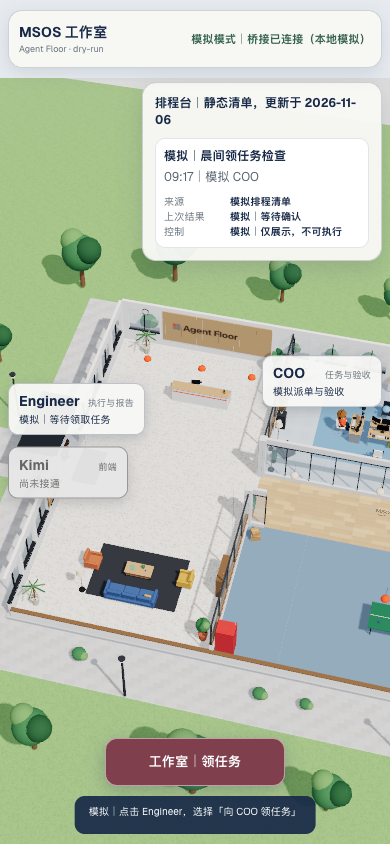
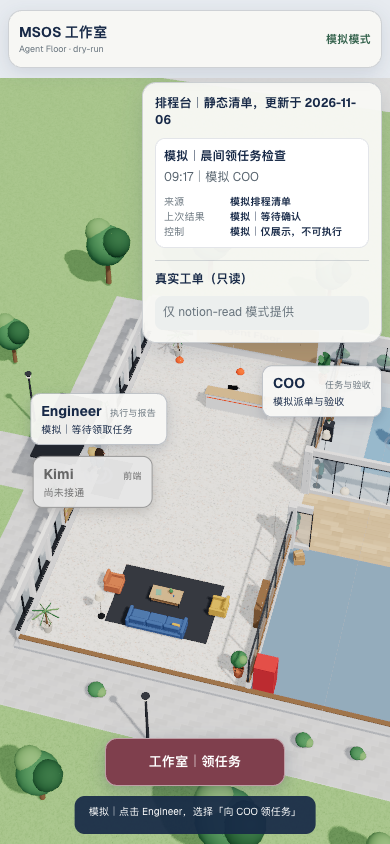
[KIMI] ENG-160 dry-run studio UI v3

diff --git a/src/studio/state.js b/src/studio/state.js
@@ -3,10 +3,11 @@
 
 export function createStudioState() {
   return {
-    bridge: { received: false, mode: 'dry-run', connected: null, lastUpdateTs: null, note: '模拟｜尚未收到桥接状态' },
+    bridge: { received: false, connection: 'unknown', mode: 'dry-run', connected: null, lastUpdateTs: null, note: '尚未收到桥接状态' },
     engineer: { taskId: null, taskTitle: '模拟｜等待领取任务', blocked: null, claimPending: false, lastRejection: null },
     kimi: { status: '尚未接通' },
     schedule: { loaded: false, updatedAt: null, items: [] },
+    real: { ok: null, working: [], claimable: [], error: null },
     reports: {},
     reportOrder: [],
     reviewPending: {},
@@ -22,7 +23,8 @@ export function applyStudioEvent(state, ev) {
       if (ev.agent === 'kimi') break;
       state.bridge = {
         received: true,
-        mode: 'dry-run',
+        connection: 'connected',
+        mode: state.bridge.mode,
         connected: true,
         lastUpdateTs: Number.isFinite(ev.ts) ? ev.ts : Date.now(),
         note: String(ev.activity || '模拟｜status 心跳保活'),
@@ -32,10 +34,11 @@ export function applyStudioEvent(state, ev) {
     case 'bridge_status':
       state.bridge = {
         received: true,
+        connection: 'connected',
         mode: String(ev.mode || 'dry-run'),
         connected: ev.connected === true,
         lastUpdateTs: Number.isFinite(ev.last_update_ts) ? ev.last_update_ts : null,
-        note: String(ev.note || '模拟｜桥接状态已更新'),
+        note: String(ev.note || '桥接状态已更新'),
       };
       break;
     case 'claim_confirmed':
@@ -87,9 +90,19 @@ export function applyStudioEvent(state, ev) {
       if (approved) {
         delete state.reports[taskId];
         state.reportOrder = state.reportOrder.filter((id) => id !== taskId);
+        if (state.engineer.taskId === taskId) {
+          state.engineer.taskId = null;
+          state.engineer.taskTitle = '模拟｜等待领取任务';
+          state.engineer.blocked = null;
+          state.engineer.claimPending = false;
+        }
         state.notice = `模拟｜${taskId} 验收通过，文件已收回`;
       } else {
         report.status = 'rejected';
+        if (state.engineer.taskId === taskId) {
+          const title = state.engineer.taskTitle.replace(/^退回修改｜/, '');
+          state.engineer.taskTitle = `退回修改｜${title}`;
+        }
         state.notice = `模拟｜${taskId} 退回修改：${report.note}`;
       }
       break;
@@ -118,6 +131,35 @@ export function setStudioSchedule(state, board) {
   return state;
 }
 
+export function setStudioBridgeConnection(state, connected) {
+  state.bridge.connection = connected ? 'connected' : 'disconnected';
+  return state;
+}
+
+export function setStudioReal(state, real) {
+  const read = (items) => Array.isArray(items) ? items.filter((item) => item && typeof item === 'object').map((item) => ({
+    id: String(item.id || '未提供'),
+    title: String(item.title || '未提供'),
+    status: String(item.status || '未提供'),
+    deadline: item.deadline ? String(item.deadline) : '未提供',
+    url: item.url ? String(item.url) : null,
+  })) : [];
+  state.real = {
+    ok: Boolean(real && real.ok === true),
+    working: read(real?.working),
+    claimable: read(real?.claimable),
+    error: real?.error ? String(real.error) : null,
+  };
+  return state;
+}
+
+export function realWorkView(state) {
+  if (state.bridge.mode === 'dry-run') return { kind: 'mode', text: '仅 notion-read 模式提供' };
+  if (state.real.ok === false) return { kind: 'error', text: '真实工单读取失败' };
+  if (state.real.ok === null) return { kind: 'loading', text: '真实工单读取中' };
+  return { kind: 'ready', text: '' };
+}
+
 /** Record the intent only. Confirmation events, never clicks, complete the work. */
 export function beginStudioAction(state, payload) {
   const action = { ...payload, ts: Number.isFinite(payload.ts) ? payload.ts : Date.now() };
@@ -141,15 +183,17 @@ export function latestReport(state) {
 
 export function bridgeView(state, now = Date.now()) {
   const b = state.bridge;
-  if (!b.received) return { text: '模拟模式｜状态未知', stale: true, note: b.note };
+  if (b.connection === 'disconnected') return { text: '桥接未连接', title: '桥接未连接', stale: true, note: b.note };
+  if (!b.received) return { text: '状态未知', title: '状态未知', stale: true, note: b.note };
+  const title = { 'dry-run': '模拟模式', 'notion-read': '只读真实工单｜领取仍为模拟', live: '真实模式' }[b.mode] || '状态未知';
   const stale = !b.connected || !b.lastUpdateTs || now - b.lastUpdateTs > 60_000;
   if (stale) {
     const time = b.lastUpdateTs
       ? new Date(b.lastUpdateTs).toLocaleTimeString('zh-CN', { hour: '2-digit', minute: '2-digit', hour12: false })
       : '未知';
-    return { text: `模拟模式｜资料过时／断线，最后更新 ${time}`, stale: true, note: b.note };
+    return { text: `${title}｜资料过时／断线，最后更新 ${time}`, title, stale: true, note: b.note };
   }
-  return { text: '模拟模式｜桥接已连接（本地模拟）', stale: false, note: b.note };
+  return { text: title, title, stale: false, note: b.note };
 }
 
 export class StudioStore {
@@ -173,6 +217,14 @@ export class StudioStore {
   }
   setSchedule(board) {
     setStudioSchedule(this.state, board);
+    this.emit();
+  }
+  setReal(real) {
+    setStudioReal(this.state, real);
+    this.emit();
+  }
+  setBridgeConnection(connected) {
+    setStudioBridgeConnection(this.state, connected);
     this.emit();
   }
 }

diff --git a/src/studio/boot.ts b/src/studio/boot.ts
@@ -5,7 +5,7 @@ import { store } from '../core/store';
 import { World } from '../world/World';
 import { StudioHud } from './StudioHud';
 import { latestReport, StudioStore, type StudioEvent } from './state';
-import { postStudioAction, type StudioActionPayload } from './transport';
+import { fetchStudioState, postStudioAction, subscribeBridge, useBridge, type StudioActionPayload } from './transport';
 
 export async function bootStudio(app: HTMLElement, stage: HTMLElement) {
   document.title = 'MSOS 工作室 · 模拟模式';
@@ -26,7 +26,8 @@ export async function bootStudio(app: HTMLElement, stage: HTMLElement) {
     try {
       await postStudioAction(action);
     } catch {
-      studio.state.notice = '模拟｜本地动作处理器未接受请求，请重试';
+      studio.state.notice = useBridge ? '桥接未接受请求，请检查连接' : '模拟｜本地动作处理器未接受请求，请重试';
+      if (useBridge) studio.setBridgeConnection(false);
       studio.state.engineer.claimPending = false;
       if (action.task_id) delete studio.state.reviewPending[action.task_id];
       studio.emit();
@@ -76,7 +77,7 @@ export async function bootStudio(app: HTMLElement, stage: HTMLElement) {
   setInterval(() => hud.tick(), 1000);
 
   const dispatch = (event: StudioEvent) => studio.apply(event);
-  setInterval(() => {
+  if (!useBridge) setInterval(() => {
     const ts = Date.now();
     // No status field: keep a completed role completed instead of re-joining as idle.
     store.applyLocal({ type: 'status', agent: 'coo', activity: '模拟｜60 秒心跳保活', ts });
@@ -84,7 +85,18 @@ export async function bootStudio(app: HTMLElement, stage: HTMLElement) {
   }, 60_000);
   const params = new URLSearchParams(location.search);
   const now = Date.now();
-  dispatch({ type: 'bridge_status', mode: 'dry-run', connected: true, last_update_ts: now, note: '模拟｜本地 dry-run 已就绪' });
+  // Real bridge status comes only from the bridge; never fake a connection or confirmation.
+  if (!useBridge) dispatch({ type: 'bridge_status', mode: 'dry-run', connected: true, last_update_ts: now, note: '模拟｜本地 dry-run 已就绪' });
+  const refreshReal = async () => {
+    if (!useBridge || studio.state.bridge.mode === 'dry-run') return;
+    try {
+      const snapshot = await fetchStudioState();
+      studio.setReal(snapshot.real || null);
+    } catch {
+      studio.setReal(null);
+    }
+  };
+  studio.onEvent((event) => { if (event.type === 'bridge_status') void refreshReal(); });
   // Static COO-maintained asset only; a missing file or SPA HTML fallback is not a schedule.
   void fetch('/schedule-board.json', { cache: 'no-store', headers: { Accept: 'application/json' } })
     .then((response) => {
@@ -101,10 +113,17 @@ export async function bootStudio(app: HTMLElement, stage: HTMLElement) {
     dispatch({ type: 'claim_confirmed', agent: 'engineer', task_id: 'SIM-001', task_title: '模拟｜制作工作室领任务与验收界面', source: '模拟 COO' });
     dispatch({ type: 'report_ready', agent: 'engineer', task_id: 'SIM-001', report_local: '/sim-reports/SIM-001-report.md', summary: '模拟｜已完成三角色桌面、领取确认、阻塞举手与验收交互；本文件只是本地演示。' });
     hud.openReport();
+  } else if (capture === 'notion-read') {
+    dispatch({ type: 'bridge_status', mode: 'notion-read', connected: true, last_update_ts: now, note: '模拟｜notion-read 展示，未读取 Notion' });
+    studio.setReal({ ok: true, working: [{ id: 'SIM-READ-001', title: '模拟｜进行中的只读工单', status: '进行中', deadline: '2026-11-07', url: 'https://app.notion.com/' }], claimable: [{ id: 'SIM-READ-002', title: '模拟｜可领取的只读工单', status: '可领取', deadline: '2026-11-08', url: 'https://app.notion.com/' }] });
   } else if (capture === 'offline') {
     dispatch({ type: 'bridge_status', mode: 'dry-run', connected: false, last_update_ts: now - 65_000, note: '模拟｜桥接断线证据' });
+  } else if (capture === 'bridge-offline') {
+    studio.setBridgeConnection(false);
   } else if (params.has('simulate')) {
     void runDryRun(dispatch, { delayMs: 1400 });
+  } else if (useBridge) {
+    subscribeBridge(dispatch, (connected) => studio.setBridgeConnection(connected));
   }
 
   // Read-only inspection handles for the local dry-run checks and captures.

diff --git a/src/studio/StudioHud.ts b/src/studio/StudioHud.ts
@@ -1,8 +1,18 @@
 import type { Anchor } from '../world/World';
-import { bridgeView, latestReport, StudioStore, type StudioReport } from './state';
+import { bridgeView, latestReport, realWorkView, StudioStore, type StudioReport, type StudioRealTicket } from './state';
 
 function esc(value: string) {
   return value.replace(/[&<>"']/g, (c) => ({ '&': '&amp;', '<': '&lt;', '>': '&gt;', '"': '&quot;', "'": '&#39;' })[c]!);
+}
+
+function safeUrl(value: string | null) {
+  if (!value) return null;
+  try {
+    const url = new URL(value);
+    return url.protocol === 'https:' || url.protocol === 'http:' ? esc(value) : null;
+  } catch {
+    return null;
+  }
 }
 
 interface StudioHudActions {
@@ -81,6 +91,7 @@ export class StudioHud {
     bridge.textContent = view.text;
     bridge.classList.toggle('stale', view.stale);
     this.banner.title = view.note;
+    document.title = `MSOS 工作室 · ${view.title}`;
   }
 
   private render() {
@@ -109,12 +120,27 @@ export class StudioHud {
 
   private renderSchedule() {
     const schedule = this.studio.state.schedule;
-    if (!schedule.loaded) {
-      this.schedule.innerHTML = '<h2>排程台｜静态清单</h2><p>排程清单未载入</p>';
-      return;
-    }
-    const items = schedule.items.length ? schedule.items.map((item) => `<li><strong>${esc(item.name)}</strong><span>${esc(item.time)}｜${esc(item.owner)}</span><dl><div><dt>来源</dt><dd>${esc(item.source)}</dd></div><div><dt>上次结果</dt><dd>${esc(item.lastResult)}</dd></div><div><dt>控制</dt><dd>${esc(item.control)}</dd></div></dl></li>`).join('') : '<li>模拟｜目前没有排程</li>';
-    this.schedule.innerHTML = `<h2>排程台｜静态清单，更新于 ${esc(schedule.updatedAt || '日期未提供')}</h2><ol>${items}</ol>`;
+    const scheduleBody = schedule.loaded
+      ? `<h2>排程台｜静态清单，更新于 ${esc(schedule.updatedAt || '日期未提供')}</h2><ol>${schedule.items.length ? schedule.items.map((item) => `<li><strong>${esc(item.name)}</strong><span>${esc(item.time)}｜${esc(item.owner)}</span><dl><div><dt>来源</dt><dd>${esc(item.source)}</dd></div><div><dt>上次结果</dt><dd>${esc(item.lastResult)}</dd></div><div><dt>控制</dt><dd>${esc(item.control)}</dd></div></dl></li>`).join('') : '<li>模拟｜目前没有排程</li>'}</ol>`
+      : '<h2>排程台｜静态清单</h2><p>排程清单未载入</p>';
+    this.schedule.innerHTML = scheduleBody + this.realMarkup();
+  }
+
+  private realMarkup() {
+    const state = this.studio.state;
+    const view = realWorkView(state);
+    const body = view.kind === 'ready'
+      ? this.realGroup('进行中', state.real.working) + this.realGroup('可领取', state.real.claimable)
+      : `<p class="studio-real-message">${view.text}</p>`;
+    return `<section class="studio-real"><h2>真实工单（只读）</h2>${body}</section>`;
+  }
+
+  private realGroup(label: string, items: StudioRealTicket[]) {
+    const body = items.length ? `<ul>${items.map((item) => {
+      const url = safeUrl(item.url);
+      return `<li><strong>${esc(item.id)}</strong><span>${esc(item.title)}</span><small>${esc(item.status)}｜截止 ${esc(item.deadline)}</small>${url ? `<a href="${url}" target="_blank" rel="noreferrer">Notion ↗</a>` : ''}</li>`;
+    }).join('')}</ul>` : '<p>目前没有工单</p>';
+    return `<section class="studio-real-group"><h3>${label}</h3>${body}</section>`;
   }
 
   private renderFile() {

diff --git a/src/studio/studio.css b/src/studio/studio.css
@@ -12,7 +12,13 @@
 .studio-schedule dl{margin:8px 0 0;font-size:11px;line-height:1.5}
 .studio-schedule dl div{display:grid;grid-template-columns:60px 1fr;gap:6px}
 .studio-schedule dt{color:#68747d}.studio-schedule dd{margin:0;font-weight:650}
+.studio-real{margin-top:12px;padding-top:10px;border-top:1px solid rgba(23,41,71,.16)}
+.studio-real h2{font-size:13px}.studio-real-group{margin-top:10px}.studio-real-group h3{margin:0 0 5px;font-size:11px;color:#68747d}
+.studio-real-group ul{list-style:none;margin:0;padding:0}.studio-real-group li{display:grid;gap:2px;margin-bottom:6px}
+.studio-real-group li>strong{font-size:11px}.studio-real-group li>span{font-size:11px}.studio-real-group small{font-size:10px;color:#68747d}
+.studio-real-group a{display:inline-flex;align-items:center;justify-content:center;min-height:44px;margin-top:4px;border:1px solid #8a969e;border-radius:8px;color:#294d68;font-size:11px;font-weight:700;text-decoration:none}
+.studio-real-message{padding:8px!important;border-radius:8px;background:#ecefee}
 .studio-launcher{position:absolute;left:50%;bottom:calc(max(14px,env(safe-area-inset-bottom)) + 50px);transform:translateX(-50%);min-width:180px;min-height:48px;padding:10px 18px;border:1px solid rgba(255,255,255,.5);border-radius:12px;background:#7f3f4d;color:#fff;box-shadow:0 5px 18px rgba(23,41,71,.24);font-size:14px;font-weight:750;cursor:pointer;z-index:4500}
 .studio-launcher:focus-visible{outline:3px solid #236b8e;outline-offset:3px}
-@media(max-width:600px){.studio-banner{left:8px;right:8px;padding:8px 10px;gap:8px}.studio-brand strong{font-size:14px}.studio-brand span{font-size:9px}.studio-bridge{font-size:11px;max-width:205px}.studio-tag{min-width:120px;max-width:160px}.studio-schedule{top:82px;right:8px;width:240px;max-height:220px;padding:12px}.studio-schedule h2{font-size:12px;margin-bottom:8px}.studio-schedule li{padding:8px}.studio-schedule dl{font-size:10px}.studio-notice{bottom:max(10px,env(safe-area-inset-bottom));font-size:10px}.studio-launcher{bottom:calc(max(10px,env(safe-area-inset-bottom)) + 48px);min-height:48px;font-size:13px}.studio-menu,.studio-modal{padding:20px 18px}.studio-review-actions{gap:8px}}
+@media(max-width:600px){.studio-banner{left:8px;right:8px;padding:8px 10px;gap:8px}.studio-brand strong{font-size:14px}.studio-brand span{font-size:9px}.studio-bridge{font-size:11px;max-width:205px}.studio-tag{min-width:120px;max-width:160px}.studio-schedule{top:82px;right:8px;width:240px;max-height:300px;padding:12px}.studio-schedule h2{font-size:12px;margin-bottom:8px}.studio-schedule li{padding:8px}.studio-schedule dl{font-size:10px}.studio-notice{bottom:max(10px,env(safe-area-inset-bottom));font-size:10px}.studio-launcher{bottom:calc(max(10px,env(safe-area-inset-bottom)) + 48px);min-height:48px;font-size:13px}.studio-menu,.studio-modal{padding:20px 18px}.studio-review-actions{gap:8px}}
 @media(prefers-reduced-motion:reduce){.studio-hud *{animation:none!important;transition:none!important}}

diff --git a/src/studio/state.d.ts b/src/studio/state.d.ts
@@ -4,19 +4,25 @@ export interface StudioAction { action: 'claim_request' | 'review'; agent?: stri
 export interface StudioReport { taskId: string; status: 'ready' | 'rejected'; summary: string; reportUrl: string | null; reportLocal: string | null; note: string }
 export interface StudioScheduleItem { name: string; owner: string; time: string; source: string; lastResult: string; control: string }
 export interface StudioScheduleBoard { updatedAt?: string; items?: StudioScheduleItem[] }
+export interface StudioRealTicket { id: string; title: string; status: string; deadline: string; url: string | null }
+export interface StudioRealState { ok: boolean | null; working: StudioRealTicket[]; claimable: StudioRealTicket[]; error: string | null }
 export interface StudioState {
-  bridge: { received: boolean; mode: string; connected: boolean | null; lastUpdateTs: number | null; note: string };
+  bridge: { received: boolean; connection: 'unknown' | 'connected' | 'disconnected'; mode: string; connected: boolean | null; lastUpdateTs: number | null; note: string };
   engineer: { taskId: string | null; taskTitle: string; blocked: { taskId: string; reason: string } | null; claimPending: boolean; lastRejection: string | null };
   kimi: { status: '尚未接通' };
   schedule: { loaded: boolean; updatedAt: string | null; items: StudioScheduleItem[] };
+  real: StudioRealState;
   reports: Record<string, StudioReport>; reportOrder: string[]; reviewPending: Record<string, { result: string; note: string }>; notice: string; actions: StudioAction[];
 }
 export function createStudioState(): StudioState;
 export function applyStudioEvent(state: StudioState, ev: StudioEvent): StudioState;
 export function setStudioSchedule(state: StudioState, board: StudioScheduleBoard | null): StudioState;
+export function setStudioReal(state: StudioState, real: Partial<StudioRealState> | null): StudioState;
+export function setStudioBridgeConnection(state: StudioState, connected: boolean): StudioState;
+export function realWorkView(state: StudioState): { kind: 'mode' | 'error' | 'loading' | 'ready'; text: string };
 export function beginStudioAction(state: StudioState, payload: Omit<StudioAction, 'ts'> & { ts?: number }): StudioAction;
 export function latestReport(state: StudioState): StudioReport | null;
-export function bridgeView(state: StudioState, now?: number): { text: string; stale: boolean; note: string };
+export function bridgeView(state: StudioState, now?: number): { text: string; title: string; stale: boolean; note: string };
 export class StudioStore {
   state: StudioState;
   constructor();
@@ -26,4 +32,6 @@ export class StudioStore {
   emit(): void;
   beginAction(payload: Omit<StudioAction, 'ts'> & { ts?: number }): StudioAction;
   setSchedule(board: StudioScheduleBoard | null): void;
+  setReal(real: Partial<StudioRealState> | null): void;
+  setBridgeConnection(connected: boolean): void;
 }

diff --git a/src/studio/transport.ts b/src/studio/transport.ts
@@ -1,5 +1,9 @@
-// Local dry-run /actions handler. The Request is a real POST-shaped request,
-// but it is resolved here and never passed to the network or the Agent Floor server.
+// Studio action transport.
+// Default (?studio): controlled transport to the local MSOS bridge (http://127.0.0.1:4318, override with ?bridge=).
+//   POST /actions carries the intent only; results arrive as bridge events on GET /studio/events (SSE).
+// Kimi's local dry-run handler stays for ?simulate and ?capture (UI evidence runs), and never touches the network.
+import type { StudioEvent, StudioRealState } from './state';
+
 export type StudioActionPayload = {
   action: 'claim_request' | 'review';
   agent?: string;
@@ -9,15 +13,47 @@ export type StudioActionPayload = {
   ts: number;
 };
 
+const params = new URLSearchParams(location.search);
+export const BRIDGE = (params.get('bridge') || 'http://127.0.0.1:4318').replace(/\/$/, '');
+export const useBridge = !params.has('simulate') && !params.has('capture');
+
 export const dryRunActionRequests: StudioActionPayload[] = [];
 
 export async function postStudioAction(payload: StudioActionPayload): Promise<Response> {
+  if (useBridge) {
+    const res = await fetch(BRIDGE + '/actions', {
+      method: 'POST',
+      headers: { 'Content-Type': 'application/json' },
+      body: JSON.stringify(payload),
+      signal: AbortSignal.timeout(5000),
+    });
+    if (res.status !== 202) throw new Error('bridge refused: ' + res.status);
+    return res;
+  }
   const request = new Request('/actions', {
     method: 'POST',
     headers: { 'Content-Type': 'application/json' },
     body: JSON.stringify(payload),
   });
   return localActionHandler(request);
+}
+
+/** Bridge events → studio state. EventSource reconnects by itself; the bridge replays current state on connect. */
+export function subscribeBridge(dispatch: (event: StudioEvent) => void, onConnection: (connected: boolean) => void): EventSource {
+  const es = new EventSource(BRIDGE + '/studio/events');
+  es.onopen = () => onConnection(true);
+  es.onerror = () => onConnection(false);
+  es.onmessage = (e) => {
+    onConnection(true);
+    try { dispatch(JSON.parse(e.data)); } catch { /* ignore malformed frames */ }
+  };
+  return es;
+}
+
+export async function fetchStudioState(): Promise<{ mode?: string; real?: StudioRealState | null }> {
+  const response = await fetch(BRIDGE + '/studio/state', { cache: 'no-store', signal: AbortSignal.timeout(5000) });
+  if (!response.ok) throw new Error('bridge state unavailable: ' + response.status);
+  return response.json();
 }
 
 async function localActionHandler(request: Request): Promise<Response> {

diff --git a/docs/eng-160/HANDOFF_V3.md b/docs/eng-160/HANDOFF_V3.md
@@ -1,0 +1,33 @@
+# ENG-160-UI v3 — 本地桥接传输、三模式与真实工单只读列表
+
+## STATUS
+
+DONE（本地 dry-run 桥接已端到端验证）。基线：`kimi/studio-ui-v2@c80809d`；分支：`kimi/studio-ui-v3`。未修改 server、`shared/protocol.js`、bridge 目录或 arthur-os；未连接 Notion、真实 API 或任何 token。
+
+## CHANGED
+
+- `src/studio/transport.ts`：默认 `?studio` 使用 `127.0.0.1:4318`，可用 `?bridge=` 覆盖；POST `/actions` 只发送领取／验收意图，GET `/studio/events` 以 SSE 接收确认事件；新增 GET `/studio/state` 只读快照。只有 `?simulate` 与 `?capture` 使用本地 dry-run handler。
+- `src/studio/boot.ts`：接入桥接订阅与只读状态刷新；桥接模式不再发本地假 `bridge_status` 或本地心跳；请求失败显示「桥接未接受请求，请检查连接」。新增 notion-read 与断线展示 capture。
+- `src/studio/state.js`、`state.d.ts`：新增桥接连接状态、真实工单只读状态；三种模式文案为「模拟模式」「只读真实工单｜领取仍为模拟」「真实模式」，未收到为「状态未知」，传输断开为「桥接未连接」。`review_result=approved` 清除 Engineer 旧单并恢复「等待领取任务」；退回保留任务并标「退回修改」。
+- `src/studio/StudioHud.ts`：页面标题同步桥接模式；排程台下方新增「真实工单（只读）」，分列 working／claimable 的 id、title、status、deadline 与安全 http(s) Notion 链接，无领取按钮；失败与 dry-run 有各自明确文案。
+- `src/studio/studio.css`：真实工单只读列表与手机排程台滚动区域样式。
+- `test/studio.test.mjs`：新增 4 项测试，覆盖断线不假确认、三种模式与未知文案、验收后清名牌／退回保留、real.ok=false 文案。
+- `scripts/studio-browser.mjs`：保留 v1／v2 坐标点击回归；新增 notion-read 只读列表、本地桥接完整领取到验收、断线后点击不产生假确认的检查与截图。
+- `docs/eng-160/evidence/`：新增 3 张 v3 截图，更新浏览器检查 JSON 与回归截图。
+
+## TESTED
+
+- `npm test`：24/24 PASS（原 20 项＋新增 4 项）。
+- `npm run build`：TypeScript 与 Vite production build PASS。
+- `node scripts/studio-browser.mjs`：390×844 mobile emulation PASS；v1／v2 回归通过。使用本地 `bridge.mjs --dry-run` 完成真实传输的 `claim_request → claim_confirmed → report_ready → review → review_result(approved)`，验收后 taskId 为 null、桌上文件消失、名牌恢复等待领取。随后切换到未监听端口，确认横幅「桥接未连接」且点击没有产生 taskId 或报告。
+- 桥接运行数据写入独立临时目录 `.eng160/bridge-v3-state`，未写 bridge 默认 `state/`；浏览器断言记录见 `evidence/browser-checks.json`。
+
+## 截图
+
+- `v3-notion-read.png`：notion-read 横幅、页面标题与两组只读工单列表；这是合成 UI 展示，未读取 Notion。
+- `v3-approved.png`：本地 dry-run 桥接验收后的 Engineer 名牌与空桌面。
+- `v3-disconnected.png`：桥接断线横幅与请求失败提示，没有假确认。
+
+## 未接真实的部分
+
+仅传输与本地 dry-run 业务事件已接通；真实 Notion 读取、真实领取、真实执行与真实验收均未测试或启用。notion-read 截图使用 `SIM-READ-*` 合成数据；Kimi 席位仍固定「尚未接通」；排程仍是静态 JSON；没有 ArthurDay 入口、token 或新增动作。
